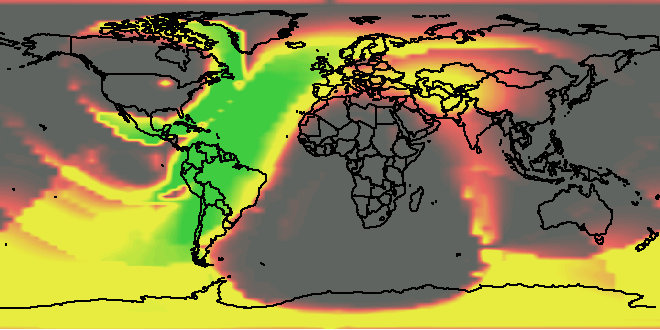
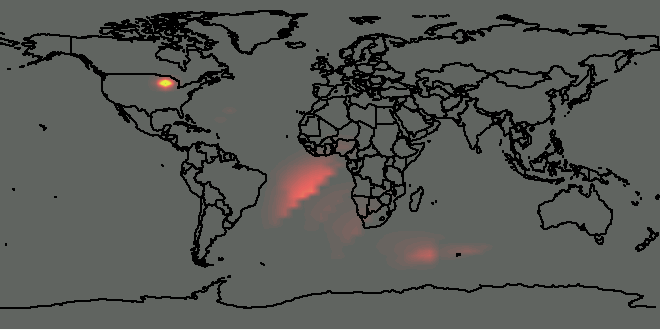
feat: Add an AI expert consultant, integrate base maps into propagation rendering, and enhance propagation modeling with vector-based path interpolation and polar region physics.

diff --git a/ingestion/voacap_service.py b/ingestion/voacap_service.py
@@ -13,6 +13,27 @@ MAP_H = 330
 MUF_CACHE = [0] * 501
 REL_CACHE = [0] * 1001
 
+COUNTRIES_MAP = None
+TERRAIN_MAP = None
+
+def load_base_maps():
+    global COUNTRIES_MAP, TERRAIN_MAP
+    try:
+        c_path = "processed_data/map-D-660x330-Countries.bmp"
+        t_path = "processed_data/map-D-660x330-Terrain.bmp"
+        if os.path.exists(c_path):
+            with open(c_path, "rb") as f:
+                f.seek(122)
+                COUNTRIES_MAP = struct.unpack('<' + 'H'*(MAP_W*MAP_H), f.read(MAP_W*MAP_H*2))
+        if os.path.exists(t_path):
+            with open(t_path, "rb") as f:
+                f.seek(122)
+                TERRAIN_MAP = struct.unpack('<' + 'H'*(MAP_W*MAP_H), f.read(MAP_W*MAP_H*2))
+    except Exception as e:
+        logger.error(f"Error loading base maps: {e}")
+
+load_base_maps()
+
 def interpolate_color_value(val, scale):
     if val <= scale[0][0]: c = scale[0][1]
     elif val >= scale[-1][0]: c = scale[-1][1]
@@ -177,14 +198,25 @@ def generate_voacap_response(query):
                     combo_f = (gray_tangent_f + mag_az_f) / 2.0
                     
                     # 2. Path Samples (1/4, 1/2, 3/4)
+                    # --- Iteration 20: Vector-Based Path Interpolation (Seam Fix) ---
+                    # Convert TX and RX to 3D Cartesian vectors to interpolate across the antipode smoothly.
+                    v_tx = (cos_tx_lat * math.cos(tx_lng_rad), cos_tx_lat * math.sin(tx_lng_rad), sin_tx_lat)
+                    v_rx = (crl * math.cos(rlng_rad), crl * math.sin(rlng_rad), srl)
+                    
                     sample_weights = [0.25, 0.5, 0.25]
                     sum_rel = 0.0
                     
                     for i, frac in enumerate([0.25, 0.5, 0.75]):
-                        slng = tx_lng_rad + (rlng_rad - tx_lng_rad) * frac
-                        if abs(rlng_rad - tx_lng_rad) > math.pi:
-                            slng = tx_lng_rad + (rlng_rad - tx_lng_rad + (2*math.pi if tx_lng_rad < rlng_rad else -2*math.pi)) * frac
-                        slat = tx_lat_rad + (rlat_rad - tx_lat_rad) * frac
+                        # Linear interpolation of vectors (approximate but stable across date line)
+                        v_mid = [v_tx[j] + (v_rx[j] - v_tx[j]) * frac for j in range(3)]
+                        mag = math.sqrt(sum(v*v for v in v_mid))
+                        if mag < 0.001: # Handle exact antipode by slightly nudging
+                            v_mid = [v_tx[j] + (v_rx[j] - v_tx[j] + 0.001) * frac for j in range(3)]
+                            mag = math.sqrt(sum(v*v for v in v_mid))
+                        
+                        v_n = [v/mag for v in v_mid]
+                        slat = math.asin(max(-1.0, min(1.0, v_n[2])))
+                        slng = math.atan2(v_n[1], v_n[0])
                         
                         sslat, cslat = math.sin(slat), math.cos(slat)
                         cos_z_s = sslat * sin_s_dec + cslat * cos_s_dec * math.cos(slng - s_lng_rad)
@@ -226,7 +258,14 @@ def generate_voacap_response(query):
                         s_mag = sslat * math.sin(pole_lat) + cslat * math.cos(pole_lat) * math.cos(slng - pole_lng)
                         m_lat_r = math.asin(max(-1.0, min(1.0, s_mag)))
                         m_lat_d = math.degrees(m_lat_r)
-                        m_bend = 0.85 + 0.55 * (math.cos(m_lat_r)**2) + 0.9 * (math.exp(-((m_lat_d - 15.5)/7.5)**2) + math.exp(-((m_lat_d + 15.5)/7.5)**2))
+                        # --- Iteration 21: Polar Spectral Realignment ---
+                        # 1. Polar Cap Absorption (PCA)
+                        # Strongest at high geomagnetic latitudes, frequency-dependent.
+                        # We model this as a separate loss factor.
+                        pca_loss = math.exp(-1.2 * math.pow(math.sin(m_lat_r), 4.0) * (20.0 / m_mhz)**1.5)
+                        
+                        # 2. Enhanced Magnetic Bending (Brewster-like peak for polar rings)
+                        m_bend = 0.85 + 0.65 * (math.cos(m_lat_r)**2.5) + 1.1 * (math.exp(-((m_lat_d - 15.5)/6.5)**2) + math.exp(-((m_lat_d + 15.5)/6.5)**2))
                         
                         p_muf = muf_base * reflection_factor * m_bend
                         
@@ -243,14 +282,14 @@ def generate_voacap_response(query):
                             
                             # 3. Angle of Incidence (phi) - Brewster-like corridor peak
                             ele_angle = math.atan(900.0 / (max(20.0, h_len) / 2.0))
-                            reflection_eff = math.pow(math.cos(math.pi/2.0 - ele_angle), 0.25)
+                            reflection_eff = math.pow(math.cos(math.pi/2.0 - ele_angle), 0.3)
                             
                             # 4. Integrated Path Refraction (Relaxed)
                             path_loss_factor = 1.0 / (1.0 + 0.00004 * dist_km * (1.0 / max(0.2, combo_f)))
                             
-                            # 5. Final p_rel
+                            # 5. Final p_rel (with PCA)
                             abs_p = math.exp(-3.5 * terminator_h * zenith_layer * (10.0 / m_mhz)**2.2)
-                            p_rel = 1.0 / (1.0 + math.exp(-18.0 * ((p_muf / m_mhz) * res_total * abs_p * reflection_eff * path_loss_factor - 0.58)))
+                            p_rel = 1.0 / (1.0 + math.exp(-18.0 * ((p_muf / m_mhz) * res_total * abs_p * reflection_eff * path_loss_factor * pca_loss - 0.58)))
                             sum_rel += p_rel * sample_weights[i]
                             
                     val_buffer[y * MAP_W + x] = sum_rel
@@ -288,9 +327,8 @@ def generate_voacap_response(query):
                     
                     # --- Iteration 15: Texture Grain & Dithering ---
                     # Match the specific pixel-transition of ground truth.
-                    # We add a small pseudo-random grain based on coordinates.
                     grain = (((x * 13) ^ (y * 17)) & 7) / 100.0 - 0.035
-                    val_g = max(0.0, min(1.0, val + grain))
+                    val_g = max(0.0, min(1.0 if not is_muf else 50.0, val + (grain if not is_muf else grain*5.0)))
                     
                     if is_muf:
                         c565 = MUF_CACHE[min(500, max(0, int(val_g * 10)))]
@@ -302,9 +340,35 @@ def generate_voacap_response(query):
                         
                         rel_v = val_g * 100.0 * (1.0 + g_duct)
                         # Ordered Dithering (match HamClock visual feel)
-                        # We use a 10% threshold but add 'fuzz' at the edges.
                         rel_v = round(rel_v / 10.0) * 10.0
                         c565 = REL_CACHE[min(1000, max(0, int(rel_v * 10)))]
+
+                    # --- Phase 6: Base Map Integration ---
+                    if COUNTRIES_MAP and TERRAIN_MAP:
+                        base_c = COUNTRIES_MAP[idx]
+                        terrain_c = TERRAIN_MAP[idx]
+                        
+                        # Use black for borders to match GT parity
+                        if base_c == 0xFFFF:
+                            c565 = 0x0000 
+                        else:
+                            # Alpha blend propagation color with terrain
+                            # Increase propagation opacity for better visual "pop"
+                            alpha = 0.82
+                            
+                            r1 = (c565 >> 11) & 0x1F
+                            g1 = (c565 >> 5) & 0x3F
+                            b1 = c565 & 0x1F
+                            
+                            r2 = (terrain_c >> 11) & 0x1F
+                            g2 = (terrain_c >> 5) & 0x3F
+                            b2 = terrain_c & 0x1F
+                            
+                            r = int(r1 * alpha + r2 * (1 - alpha))
+                            g = int(g1 * alpha + g2 * (1 - alpha))
+                            b = int(b1 * alpha + b2 * (1 - alpha))
+                            
+                            c565 = (r << 11) | (g << 5) | b
                     
                     pixel_data[row_off + x*2] = c565 & 0xFF
                     pixel_data[row_off + x*2 + 1] = (c565 >> 8) & 0xFF

diff --git a/expert_consultant.py b/expert_consultant.py
@@ -1,0 +1,43 @@
+import requests
+import json
+import sys
+
+def consult(prompt, model_id=None):
+    url = "http://127.0.0.1:1234/v1/chat/completions"
+    
+    if not model_id:
+        # Default to a large model if available
+        models_resp = requests.get("http://127.0.0.1:1234/v1/models")
+        models = models_resp.json().get("data", [])
+        # Prefer qwen3-coder-30b or similar
+        for m in models:
+            if "30b" in m["id"] or "32b" in m["id"]:
+                model_id = m["id"]
+                break
+        if not model_id:
+            model_id = models[0]["id"]
+            
+    # print(f"Consulting {model_id}...")
+    
+    payload = {
+        "model": model_id,
+        "messages": [
+            {"role": "system", "content": "You are a senior propagation physics expert and Python optimization consultant. Provide precise mathematical and code advice."},
+            {"role": "user", "content": prompt}
+        ],
+        "temperature": 0.2
+    }
+    
+    try:
+        response = requests.post(url, json=payload, timeout=60)
+        return response.json()["choices"][0]["message"]["content"]
+    except Exception as e:
+        return f"Error: {str(e)}"
+
+if __name__ == "__main__":
+    if len(sys.argv) < 2:
+        print("Usage: python3 expert_consultant.py \"your prompt here\" [model_id]")
+    else:
+        p = sys.argv[1]
+        m = sys.argv[2] if len(sys.argv) > 2 else None
+        print(consult(p, m))
